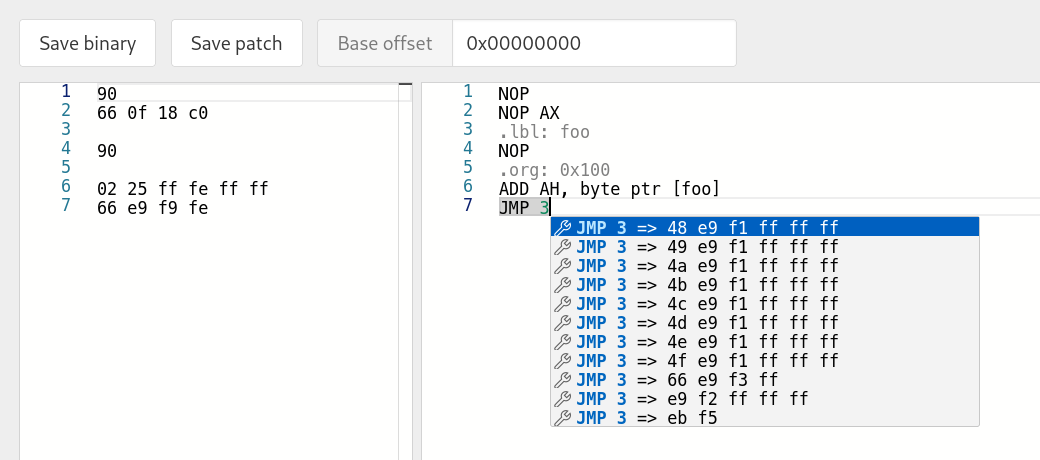
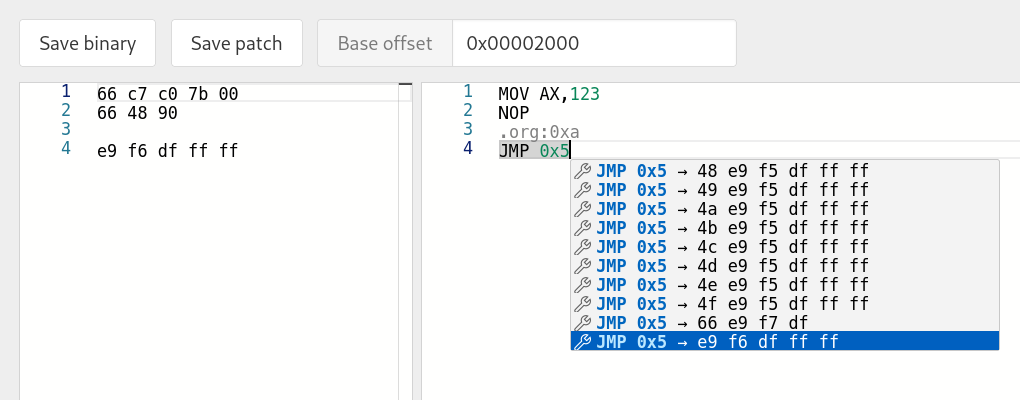
Fix org in patch; Fix single line cache cases

diff --git a/src/editor.js b/src/editor.js
@@ -99,18 +99,26 @@ require(['vs/editor/editor.main'], function () {
 
     const currentByteOffset = function(editorLineNumber, startLineNumber, offset) {
         const modelBytes = instanceBytes.getModel();
+        const modelEditor = instanceEditor.getModel();
         for (var i = startLineNumber; i < modelBytes.getLineCount() + 1; i++) {
             if (i === editorLineNumber) {
                 break;
             }
             let line = modelBytes.getLineContent(i).trimStart();
             if (!line) {
+                const disassembledLine = modelEditor.getLineContent(i).trim();
+                if (isDirective(disassembledLine)) {
+                    let candidateOrigin = parseOriginDirective(disassembledLine);
+                    if (candidateOrigin) {
+                        offset = parseInt(candidateOrigin[1], 16);
+                    }
+                }
                 continue;
             }
             if (isValidHexString(line)) {
                 line.replace(/\s/g, '').match(/.{1,2}/g).map((_) => { offset++; });
             } else {
-                console.error(`Invalid hex string @ ${line}`);
+                console.error(`Invalid hex string @ ${i} = '${line}'`);
             }
         }
         return [i, offset];
@@ -278,7 +286,10 @@ require(['vs/editor/editor.main'], function () {
 
         // After range: Matching lines are offset, e.g. if new lines were added, then cached lines previously had smaller line numbers, or vice-versa.
         for (let i = cacheOffsetLine; i < modelEditor.getLineCount() + 1; i++) {
-            if ((i - cacheOffset) in cache) {
+            // Only cache if line not empty: this is a hack to not duplicate 
+            // the previous line when inserting a newline at the end of the 
+            // text content.
+            if ((i - cacheOffset) in cache && !!modelEditor.getLineContent(i).trim()) {
                 newCache[i] = cache[i - cacheOffset];
             }
         }
@@ -288,6 +299,7 @@ require(['vs/editor/editor.main'], function () {
             cacheOffset = 0;
             cacheOffsetLine = MAX;
         } else {
+            //console.log(cacheOffset, cacheOffsetLine, cache, newCache);
             cache = newCache;
         }
     };
@@ -441,7 +453,7 @@ require(['vs/editor/editor.main'], function () {
                 } else if (k.type === "bytes") {
                     isValidCompletion = true;
                     let suggestion = {
-                        label: `${line} => ${k.data}`,
+                        label: `${line} → ${k.data}`,
                         kind: monaco.languages.CompletionItemKind.Property
                     };
                     Object.defineProperty(suggestion, 'insertText', {
@@ -648,15 +660,18 @@ require(['vs/editor/editor.main'], function () {
         const modelEditor = instanceEditor.getModel();
         for (let i = 1; i < modelBytes.getLineCount() + 1; i++) {
             const line = modelBytes.getLineContent(i);
-            if (!line || (line == UNKNOWN_BYTES)) {
+            if (line == UNKNOWN_BYTES) {
                 continue;
             }
             const disassembledLine = modelEditor.getLineContent(i).trim();
-            if (isDirective(disassembledLine)) {
+            if (!disassembledLine) {
+                continue;
+            } else if (isDirective(disassembledLine)) {
                 let candidateOrigin = parseOriginDirective(disassembledLine);
                 if (candidateOrigin) {
                     data.push(`\n    f.seek(${candidateOrigin[1]})\n\n`);
                 }
+                continue;
             } else if (disassembledLine.length > 0) {
                 data.push(`    # ${disassembledLine}\n`);
             }
@@ -674,8 +689,6 @@ require(['vs/editor/editor.main'], function () {
 import sys
 
 with open(sys.argv[1], 'r+b') as f:
-    f.seek(${baseOffset})
-
     b = b''
 ${Array.prototype.join.call(data, '')}
     f.write(b)

diff --git a/index.html b/index.html
@@ -35,7 +35,7 @@
           <li><code>.byte: $HEX</code>: Alias for <code>.fill: 1,$HEX</code>;</li>
           <li><code>.fill: $N,$HEX</code>: Insert <code>$HEX</code> bytes <code>$N</code> times at current offset;</li>
           <li><code>.lbl: $ASCII</code>: Create label at line offset in program's symbol table, use it in completions;</li>
-          <li><code>.org: $HEX</code>: Override base offset with given origin offset;</li>
+          <li><code>.org: $HEX</code>: Override current offset with given origin offset (relative to base address);</li>
       </ul>
     </div>
 

diff --git a/ghidra_scripts/AsmServer.java b/ghidra_scripts/AsmServer.java
@@ -178,7 +178,7 @@ public class AsmServer extends GhidraScript {
 			// println(new String(data));
 
 			List<AssemblyLine> lines = parseAssemblyLines(data);
-			boolean isBatch = lines.size() > 1;
+			boolean isBatch = lines.size() > 0 && lines.get(0).previousLength() > 0;
 
 			he.getResponseHeaders().put("Access-Control-Allow-Origin", Collections.singletonList("*"));
 			he.sendResponseHeaders(HttpURLConnection.HTTP_OK, 0);
@@ -253,6 +253,7 @@ public class AsmServer extends GhidraScript {
 						// we need to compute the next instruction's address, picking one of the
 						// possible encodings (which might not match what the user previously picked).
 						long candidateDiff = Math.abs(co.getDisplay().length() - line.previousLength);
+						println(String.format("%s: %s-%s=%s last=%s\n", co.getDisplay().replaceAll("\\s+", ""), co.getDisplay().length(), line.previousLength, candidateDiff, lastDiff));
 						if (candidateDiff < lastDiff) {
 							lastDiff = candidateDiff;
 							candidateInstruction = (AssemblyInstruction) co;
@@ -292,6 +293,7 @@ public class AsmServer extends GhidraScript {
 					}
 				}
 			} else if (line.type().equals(TYPE_DIRECTIVE_ORIGIN)) {
+				Address baseAddress = line.address();
 				Address originAddress = toAddr(line.data());
 				if (originAddress == null) {
 					JsonObject json = new JsonObject();
@@ -299,7 +301,7 @@ public class AsmServer extends GhidraScript {
 					json.addProperty(ASSEMBLER_COMPLETION_DATA, String.format("Invalid origin '%s'", line.data()));
 					gson.toJson(json, jsonWriter);
 				} else {
-					nextAddress = originAddress;
+					nextAddress = toAddr(baseAddress.getUnsignedOffset() + originAddress.getUnsignedOffset());
 
 					JsonObject json = new JsonObject();
 					json.addProperty(ASSEMBLER_COMPLETION_TYPE, "ok");
@@ -370,6 +372,8 @@ public class AsmServer extends GhidraScript {
 				for (final AssemblyCompletion co : computeCompletions(line.address(), line.data())) {
 					JsonObject json = new JsonObject();
 					if (co instanceof AssemblyInstruction) {
+						// Add all seen instructions, since stream mode is used to show
+						// suggestion during auto-complete.
 						json.addProperty(ASSEMBLER_COMPLETION_TYPE, "bytes");
 						json.addProperty(ASSEMBLER_COMPLETION_DATA, co.getDisplay());
 					} else if (co instanceof AssemblySuggestion) {

diff --git a/README.md b/README.md
@@ -6,9 +6,11 @@ Example using [Toshiba TLCS-900/H](https://github.com/nevesnunes/ghidra-tlcs900h
 
 ![](./img/1.png)
 
-Example using x86-64 with directives:
+Example using x86-64 (jump to relative vs absolute address):
 
 ![](./img/2.png)
+
+![](./img/3.png)
 
 `Save patch` generates a Python script that applies instructions at the given base offset to an input file:
 
@@ -18,15 +20,16 @@ Example using x86-64 with directives:
 import sys
 
 with open(sys.argv[1], 'r+b') as f:
-    f.seek(0x8000)
-
     b = b''
-    # adc (+0x1234),A
-    b += b'\xc1\x34\x12\x99'
-    # swi 7
-    b += b'\xff'
-    # extz XBC
-    b += b'\xe7\xe4\x12'
+    # MOV AX,123
+    b += b'\x66\xc7\xc0\x7b\x00'
+    # NOP
+    b += b'\x66\x48\x90'
+
+    f.seek(0x8)
+
+    # JMP 0x5
+    b += b'\x48\xe9\xf7\xdf\xff\xff'  # relative to base offset 0x2000
 
     f.write(b)
 ```
